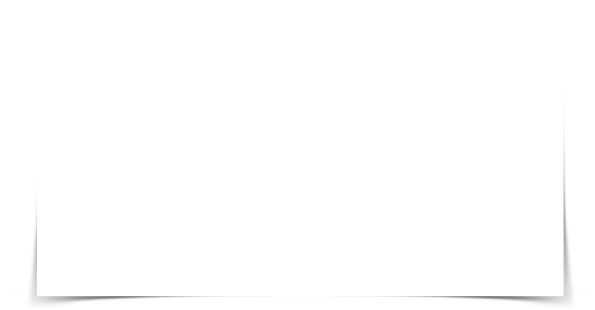
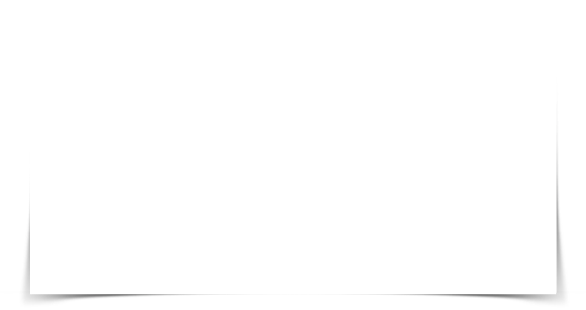
new wash & wear page & minor content changes

Changed region(s): [[0.6451, 0.5516, 0.9829, 0.9871], [0.0307, 0.7258, 0.3379, 0.9871]]

diff --git a/landing-barriertech/css/styles.css b/landing-barriertech/css/styles.css
@@ -3,47 +3,55 @@
    STYLES for Barrier Technology Landing page
    ------------------------------------------ */
 
-.landing-barriertech { font-size: 14px; line-height: 1.5; color: #595959; }
-.landing-barriertech .wrapper-screen { padding: 20px 0; }
-.landing-barriertech h2 { clear: none; }
+/* temp */
+.wrapper	 	{ background: #fbfbfb; }
+.wrapper img 	{ display: block; }
+#content 		{ width: 960px; margin: 0 6px; padding: 0; }
+body			{ background: #FBFBFB url(../images/temp/pageBackground.jpg) no-repeat fixed 0 0; height: auto; }
 
-.landing-barriertech .section-intro { height: 260px; padding-top: 130px; background: url(../images/bg-repeat-brown.png) repeat-x; }
-.landing-barriertech .section-description { height: 300px; padding-top: 55px; color: #00275d; background: #fbfbfb url(../images/bg-tinwashwear.jpg) no-repeat 50% 0; }
-.landing-barriertech .section-tech { height: 300px; padding-top: 90px; background: url(../images/bg-repeat-brown.png) repeat-x 0 -2px; }
-.landing-barriertech .section-3col { padding-top: 40px; }
+.landing-barriertech 		{ font-size: 14px; line-height: 1.5; color: #595959; }
+.landing-barriertech .inner { padding: 20px 0; }
+.landing-barriertech h2 	{ clear: none; }
+
+.landing-barriertech .section-intro 		{ height: 311px; padding-top: 79px; background: url(../images/bg-repeat-brown.png) repeat-x; }
+.landing-barriertech .section-description 	{ height: 310px; padding-top: 80px; color: #00275d; background: #fbfbfb url(../images/bg-tinwashwear.jpg) no-repeat right top; }
+.landing-barriertech .section-tech 			{ height: 300px; padding-top: 90px; background: url(../images/bg-barrier-tech.jpg) top left no-repeat; }
+.landing-barriertech .section-3col 			{ padding-top: 58px; padding-bottom: 70px; }
 
 a.find-out-more { display: block; width: 170px; height: 35px; margin-top: 40px; background: #00275d url(../images/btn-findoutmore.png) no-repeat 50% 50%; }
-a:hover { opacity: 0.85; }
+a:hover 		{ opacity: 0.85; }
 
-.section-intro .inner { width: 420px; padding-left: 552px; }
-.section-intro h2 { width: 422px; height: 78px; margin: 0 0 30px; background: url(../images/text-intro-heading.png) no-repeat; }
-.section-intro h4 { width: 380px; height: 44px; background: url(../images/text-intro-subhead.png) no-repeat; }
-.section-intro .youtube { width:595px; height: 312px; position: absolute; top: -75px; left: -45px; background: url(../images/feature-drop-shadow.png) no-repeat 0 2px; }
-.section-intro .youtube iframe { margin-left: 37px; border: 3px solid #fff; }
+.landing-barriertech .section-intro { width: 374px; padding-left: 586px; }
+	.section-intro h2 				{ width: 322px; height: 177px; margin: 0 0 33px; background: url(../images/text-intro-heading.png) no-repeat; }
+	.section-intro h4 				{ width: 338px; height: 43px; background: url(../images/text-intro-subhead.png) no-repeat; }
+	.section-intro .youtube 		{ width: 586px; height: 312px; position: absolute; top: 55px; left: 0; background: url(../images/feature-drop-shadow.png) no-repeat 0 2px; }
+	.section-intro .youtube iframe 	{ margin-left: 30px; border: 3px solid #fff; }
 
-.section-description .inner { width: 620px; padding-right: 352px; }
-.section-description h3 { margin-bottom: 1em; font-size: 18px; font-weight: normal; }
-.section-description p { margin-bottom: 1em; }
+.landing-barriertech .section-description 	{ width: 575px; padding-right: 355px; padding-left: 30px; }
+	.section-description h3 				{ margin-bottom: 12px; font-size: 18px; font-weight: normal; }
+	.section-description p 					{ margin-bottom: 14px; }
 
-.section-tech .inner { width: 520px; padding-right: 452px; }
-.section-tech h2 { width: 429px; height: 56px; margin: 0 0 25px; background: url(../images/text-tech-heading.png) no-repeat; }
-.section-tech p { line-height: 2.2; margin-bottom: 1em; }
-.section-tech .figure-polymer { z-index: 1; position: absolute; right: -170px; top: -84px; height: 405px; overflow: hidden; }
+.landing-barriertech .section-tech 	{ width: 432px; padding-right: 498px; padding-left: 30px; position: relative; }
+	.section-tech h2 				{ width: 429px; height: 56px; margin: 0 0 25px; background: url(../images/text-tech-heading.png) no-repeat; }
+	.section-tech p 				{ line-height: 2.2; margin-bottom: 1em; }
+	.section-tech .figure-polymer 	{ z-index: 1; position: absolute; right: 0; top: 0; height: 410px; overflow: hidden; }
 
-.section-3col ul.columns { margin: 0; padding: 0; list-style-type: none; }
-.section-3col .columns li { width: 319px; margin-right: 7px; float: left;  }
-.section-3col .columns li.last { margin-right: 0; }
-.section-3col .columns img { margin-bottom: 20px; -webkit-box-shadow:  3px 3px 12px 0px rgba(0, 0, 0, .25); box-shadow: 3px 3px 12px 0px rgba(0, 0, 0, .25); }
-.section-3col .columns p { padding-right: 30px; margin-bottom: 1em; }
-.section-3col .columns small { display:block; margin-top: 20px; font-size: 10px; line-height: 1.4; color: #7e7e7e; }
-.section-3col h2 { height: 49px; margin-bottom: 25px; }
-.section-3col h2.trusted { background: url(../images/text-heading-trusted.png) no-repeat; }
-.section-3col h2.technology { background: url(../images/text-heading-technology.png) no-repeat; }
-.section-3col h2.safer { background: url(../images/text-heading-safer.png) no-repeat; }
+.landing-barriertech .section-3col 			{ width: 960px; }
+	.section-3col ul.columns 				{ width: 900px; margin: 0; padding: 0 30px; list-style-type: none; }
+	.section-3col .columns li 				{ width: 285px; float: left;  }
+	.section-3col .columns li.first-col 	{ margin-right: 23px; }
+	.section-3col .columns li.second-col 	{ margin-right: 22px; }
+	.section-3col .columns img 				{ margin-bottom: 20px; -webkit-box-shadow:  3px 3px 12px 0px rgba(0, 0, 0, .25); box-shadow: 3px 3px 12px 0px rgba(0, 0, 0, .25); }
+	.section-3col .columns p 				{ padding-right: 30px; margin-bottom: 1em; }
+	.section-3col .columns small 			{ display:block; margin-top: 20px; font-size: 10px; line-height: 1.4; color: #7e7e7e; }
+	.section-3col h2 						{ height: 49px; margin-bottom: 25px; }
+	.section-3col h2.trusted 				{ background: url(../images/text-heading-trusted.png) no-repeat; }
+	.section-3col h2.technology 			{ background: url(../images/text-heading-technology.png) no-repeat; }
+	.section-3col h2.safer 					{ background: url(../images/text-heading-safer.png) no-repeat; }
 
-.section-colourtrends { margin-bottom: 40px; background: url(../images/bg-colourtrends.jpg) repeat-x 50% 0; }
-.section-colourtrends.prelaunch { background: url(../images/bg-repeat-temp.png) repeat-x 0 0; }
-.section-colourtrends img { float: left; margin-top: 10px; margin-right: 40px; -webkit-box-shadow:  3px 3px 12px 0px rgba(0, 0, 0, .25); box-shadow: 3px 3px 12px 0px rgba(0, 0, 0, .25); }
-.section-colourtrends h2 { float: left; width: 300px; height: 124px; margin-bottom: 35px;  margin-top: -5px; background: url(../images/text-heading-latestcolourtrends.png) no-repeat; }
-.section-colourtrends h3 { margin-bottom: 1.5em; font-size: 16px; }
-.section-colourtrends a.find-out-more { float: left; background-color: #304f6f; }
+.landing-barriertech .section-colourtrends 	{ background: url(../images/bg-colourtrends.jpg) repeat-x 50% 0; position: relative; padding: 16px 30px 0 588px; width: 342px; height: 403px; }
+	.section-colourtrends.prelaunch 		{ background: url(../images/bg-repeat-temp.png) repeat-x 0 0; }
+	.section-colourtrends img 				{ position: absolute; top: 16px; left: 30px; -webkit-box-shadow:  3px 3px 12px 0px rgba(0, 0, 0, .25); box-shadow: 3px 3px 12px 0px rgba(0, 0, 0, .25); }
+	.section-colourtrends h2 				{ width: 300px; height: 124px; margin-bottom: 39px; background: url(../images/text-heading-latestcolourtrends.png) no-repeat; }
+	.section-colourtrends h3 				{ margin-bottom: 22px; font-size: 16px; }
+	.section-colourtrends a.find-out-more 	{ background-color: #304f6f; margin-top: 45px; }
